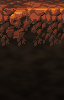
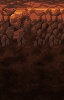
Tweak BG coordinating

diff --git a/lib/component/layer.py b/lib/component/layer.py
@@ -73,19 +73,15 @@ class Layer:
         )
 
     def generate_random_tiles(self):
-
         tiles = []
-
         x_offset = 0
-
         base_w = self.base_image.get_width()
         base_h = self.base_image.get_height()
 
         while x_offset < self.screen_width * 2:
-
             # Random size
             scale_factor = random.uniform(
-                0.85,
+                0.9,
                 1.25
             )
 
@@ -102,6 +98,13 @@ class Layer:
                 (new_w, new_h)
             )
 
+            # Random horizontal flip
+            img = pygame.transform.flip(
+                img,
+                random.choice([True, False]),
+                False
+            )
+
             # Random Y offset
             y_offset = random.randint(
                 -100,
@@ -112,7 +115,7 @@ class Layer:
                 (img, x_offset, y_offset)
             )
 
-            x_offset += new_w
+            x_offset += img.get_width()
 
         return tiles
 

diff --git a/lib/component/scene_base.py b/lib/component/scene_base.py
@@ -15,29 +15,32 @@ class BaseScene:
         self.height = screen.get_height()
 
         self.layers = [
-
+            # Yellow bg
             Layer(
                 "back.png",
                 self.width,
                 self.height,
+                x=rd.randint(-200, 0),
                 y=-200,
             ),
-
+            # Green trees
             Layer(
                 "far.png",
                 self.width,
                 self.height,
+                x=rd.randint(-200, 0),
                 y=-200,
             ),
-
+            # Actual trees
             Layer(
                 "middle.png",
                 self.width,
                 self.height,
+                x=rd.randint(-100, 0),
                 y=-200,
                 random_scale=True
             ),
-
+            # Ground
             Layer(
                 "front.png",
                 self.width,
